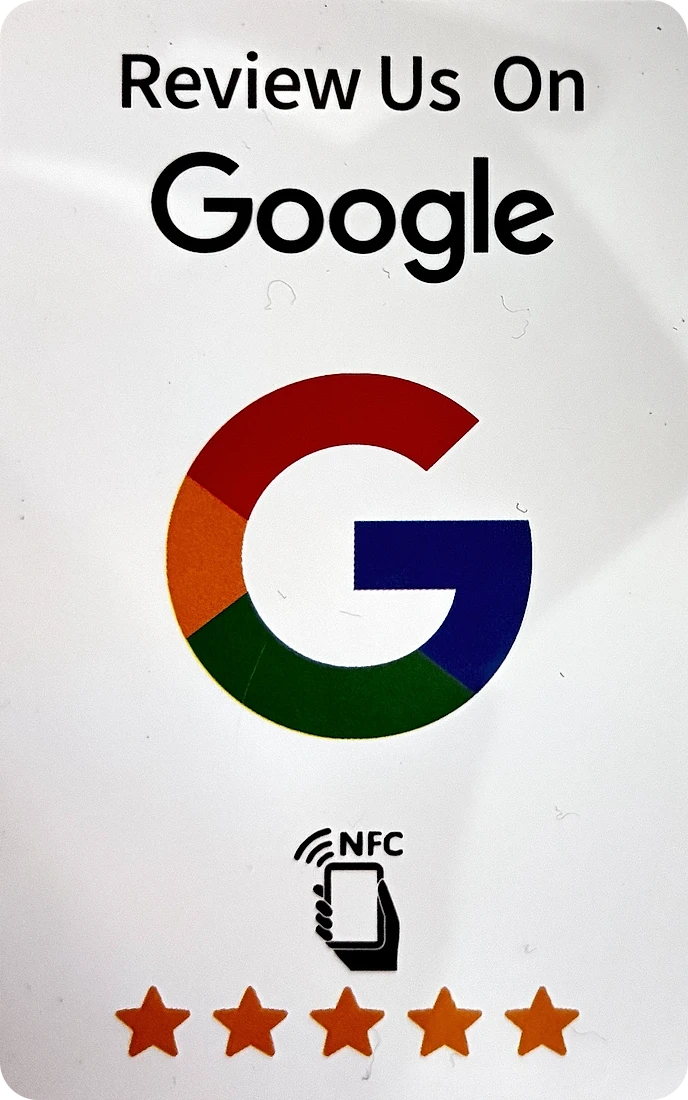
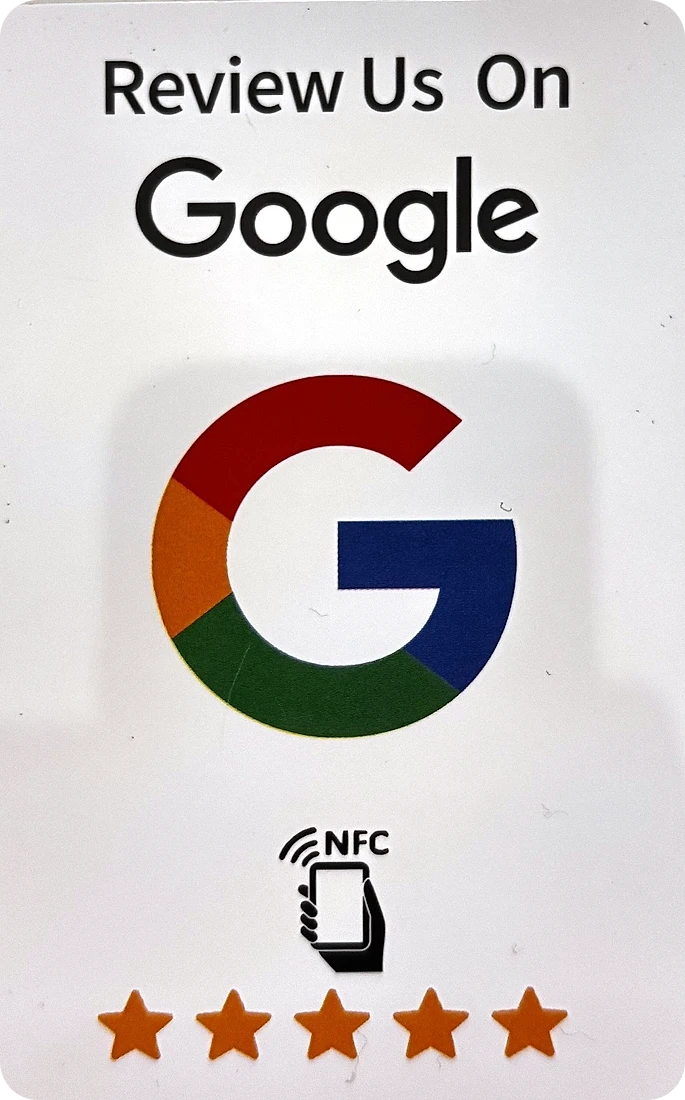
Add the black face, and a cleaner shot of the white one
The second batch confirms the Google card really is double-sided, so the
Front/Back pair is back — both faces are now photographs. It also included a
straight-on white card without the shadow that ran across the previous one,
so that replaces it.

Two fixes to the pipeline, both from cases this batch exposed:

- The mask tested for "strongly coloured or brighter than the counter", which
  described neither face of a black card. It now also accepts far darker than
  the counter, with the threshold set well past what a shadow on a pale
  surface reaches so shadow still does not qualify.
- Detection overshot one edge of the black card. A symmetric trim would have
  had to eat into the artwork on the other three sides to clear it, so trim
  now optionally takes per-side values.

Product pages show both faces on the counter, which makes the double-sided
claim something a customer can see rather than read.

Claude-Session: https://claude.ai/code/session_012QfNrjisNUZabxQkYk3ou9

diff --git a/src/app/products/[slug]/page.tsx b/src/app/products/[slug]/page.tsx
@@ -33,15 +33,23 @@ export const revalidate = 300;
  * A real photo of the product on a counter, shown under the studio shot.
  * Only for products that have been photographed in place.
  */
-const IN_USE: Record<string, { src: string; alt: string }> = {
-  "review-card": {
-    src: "/images/hero/lifestyle-google.webp",
-    alt: "The Google review card sitting on a counter",
-  },
-  "instagram-card": {
-    src: "/images/hero/lifestyle-instagram.webp",
-    alt: "The Instagram card sitting on a counter",
-  },
+const IN_USE: Record<string, { src: string; alt: string }[]> = {
+  "review-card": [
+    {
+      src: "/images/hero/lifestyle-google.webp",
+      alt: "The white face of the Google review card on a counter",
+    },
+    {
+      src: "/images/hero/lifestyle-google-black.webp",
+      alt: "The black face of the Google review card on a counter",
+    },
+  ],
+  "instagram-card": [
+    {
+      src: "/images/hero/lifestyle-instagram.webp",
+      alt: "The Instagram card on a counter",
+    },
+  ],
 };
 
 /** Artwork per product, for link previews. */
@@ -156,14 +164,19 @@ export default async function ProductPage({
           {IN_USE[product.id] && (
             <Reveal delay={0.05}>
               <figure className="card mt-3 overflow-hidden p-0">
-                <Image
-                  src={IN_USE[product.id].src}
-                  alt={IN_USE[product.id].alt}
-                  width={1400}
-                  height={1050}
-                  sizes="(max-width: 1024px) 100vw, 560px"
-                  className="h-auto w-full"
-                />
+                <div className="grid gap-px bg-neutral-200 sm:grid-cols-[repeat(auto-fit,minmax(0,1fr))]">
+                  {IN_USE[product.id].map((shot) => (
+                    <Image
+                      key={shot.src}
+                      src={shot.src}
+                      alt={shot.alt}
+                      width={1400}
+                      height={1050}
+                      sizes="(max-width: 1024px) 100vw, 280px"
+                      className="h-auto w-full"
+                    />
+                  ))}
+                </div>
                 <figcaption className="px-4 py-2.5 text-xs text-neutral-500">
                   The actual card — photographed, not a render.
                 </figcaption>

diff --git a/src/components/ProductVisual.tsx b/src/components/ProductVisual.tsx
@@ -18,7 +18,8 @@ interface ProductVisualProps {
 }
 
 const ART = {
-  googleWhite: { src: "/images/products/google-white.webp", w: 688, h: 1100 },
+  googleWhite: { src: "/images/products/google-white.webp", w: 685, h: 1100 },
+  googleBlack: { src: "/images/products/google-black.webp", w: 636, h: 1100 },
   instagram: { src: "/images/products/instagram.webp", w: 688, h: 1100 },
 } as const;
 
@@ -31,19 +32,32 @@ export function ProductVisual({
   let body: React.ReactNode = null;
 
   if (visual === "google") {
-    // Only the printed face is photographed. The reverse is shown once there
-    // is a real shot of it — pairing a photograph with drawn artwork looked
-    // obviously mismatched.
+    // Both faces: the card ships white on one side and black on the other, so
+    // showing one alone misrepresents what arrives.
+    const faces = [
+      { tag: "Front", art: ART.googleWhite },
+      { tag: "Back", art: ART.googleBlack },
+    ];
     body = (
-      <div className="flex h-full w-full items-center justify-center">
-        <Image
-          src={ART.googleWhite.src}
-          alt={name}
-          width={ART.googleWhite.w}
-          height={ART.googleWhite.h}
-          sizes="(max-width: 640px) 55vw, 320px"
-          className="h-[84%] w-auto object-contain drop-shadow-[0_8px_18px_rgba(0,0,0,0.18)]"
-        />
+      <div className="flex h-full w-full items-center justify-center gap-[6%] px-[5%]">
+        {faces.map((f) => (
+          <figure
+            key={f.tag}
+            className="flex h-full flex-col items-center justify-center"
+          >
+            <figcaption className="mb-[3%] font-display text-[11px] font-bold italic text-neutral-400">
+              {f.tag}
+            </figcaption>
+            <Image
+              src={f.art.src}
+              alt={`${name} — ${f.tag.toLowerCase()} face`}
+              width={f.art.w}
+              height={f.art.h}
+              sizes="(max-width: 640px) 40vw, 260px"
+              className="h-[70%] w-auto object-contain drop-shadow-[0_6px_14px_rgba(0,0,0,0.16)]"
+            />
+          </figure>
+        ))}
       </div>
     );
   } else if (visual === "instagram") {

diff --git a/src/components/PreorderPopup.tsx b/src/components/PreorderPopup.tsx
@@ -118,19 +118,20 @@ export function PreorderPopup() {
         {/* The actual cards, so the offer is attached to the product. */}
         <div className="flex items-end justify-center gap-2">
           {[
-            { src: "/images/products/google-white.webp", rot: "-8deg", big: false },
-            { src: "/images/products/instagram.webp", rot: "6deg", big: true },
+            { src: "/images/products/google-white.webp", w: 685, rot: "-9deg", big: false },
+            { src: "/images/products/instagram.webp", w: 688, rot: "0deg", big: true },
+            { src: "/images/products/google-black.webp", w: 636, rot: "9deg", big: false },
           ].map((c) => (
             <Image
               key={c.src}
               src={c.src}
               alt=""
               aria-hidden
-              width={688}
+              width={c.w}
               height={1100}
               sizes="120px"
               className={`w-auto rounded-md drop-shadow-[0_5px_12px_rgba(0,0,0,0.18)] ${
-                c.big ? "h-28" : "h-24"
+                c.big ? "z-10 h-28" : "h-24"
               }`}
               style={{ transform: `rotate(${c.rot})` }}
             />

diff --git a/tools/detect.py b/tools/detect.py
@@ -34,11 +34,14 @@ def card_mask(a):
     bg_sat = (bg.max() - bg.min()) / max(bg.max(), 1)
     luma = a @ np.array([0.299, 0.587, 0.114], dtype=np.float32)
     bg_luma = float(bg @ np.array([0.299, 0.587, 0.114]))
-    # Two ways to be card: strongly coloured (the Instagram print) or brighter
-    # than the counter (the white Google card). Deliberately NOT "different
-    # from the background", because cast shadow is different too and would be
-    # swallowed into the mask, dragging the detected corners outwards.
-    m = (sat > bg_sat + 0.14) | (luma > bg_luma + 11)
+    # Three ways to be card: strongly coloured (the Instagram print), brighter
+    # than the counter (the white Google card), or far darker than it (the
+    # black Google card). Deliberately NOT "different from the background",
+    # because cast shadow is different too and would be swallowed into the
+    # mask, dragging the detected corners outwards. The dark threshold is set
+    # well past what a shadow on a pale counter reaches, so shadow still does
+    # not qualify.
+    m = (sat > bg_sat + 0.14) | (luma > bg_luma + 11) | (luma < bg_luma - 60)
     return clean(m)
 
 

diff --git a/tools/finish.py b/tools/finish.py
@@ -12,10 +12,16 @@ from PIL import Image
 
 
 def finish(src, out, trim=0.012, lift=1.0):
+    """`trim` is a fraction of the short side, either one number for all four
+    edges or [left, top, right, bottom] — detection can overshoot on a single
+    side, and a symmetric trim would then have to eat into the artwork on the
+    other three to clear it."""
     im = Image.open(src).convert("RGB")
     w, h = im.size
-    t = round(min(w, h) * trim)
-    im = im.crop((t, t, w - t, h - t))
+    t = [trim] * 4 if isinstance(trim, (int, float)) else list(trim)
+    s = min(w, h)
+    l, tp, r, b = (round(v * s) for v in t)
+    im = im.crop((l, tp, w - r, h - b))
 
     a = np.asarray(im).astype(np.float32)
     ref = np.percentile(a.reshape(-1, 3), 97, axis=0)
